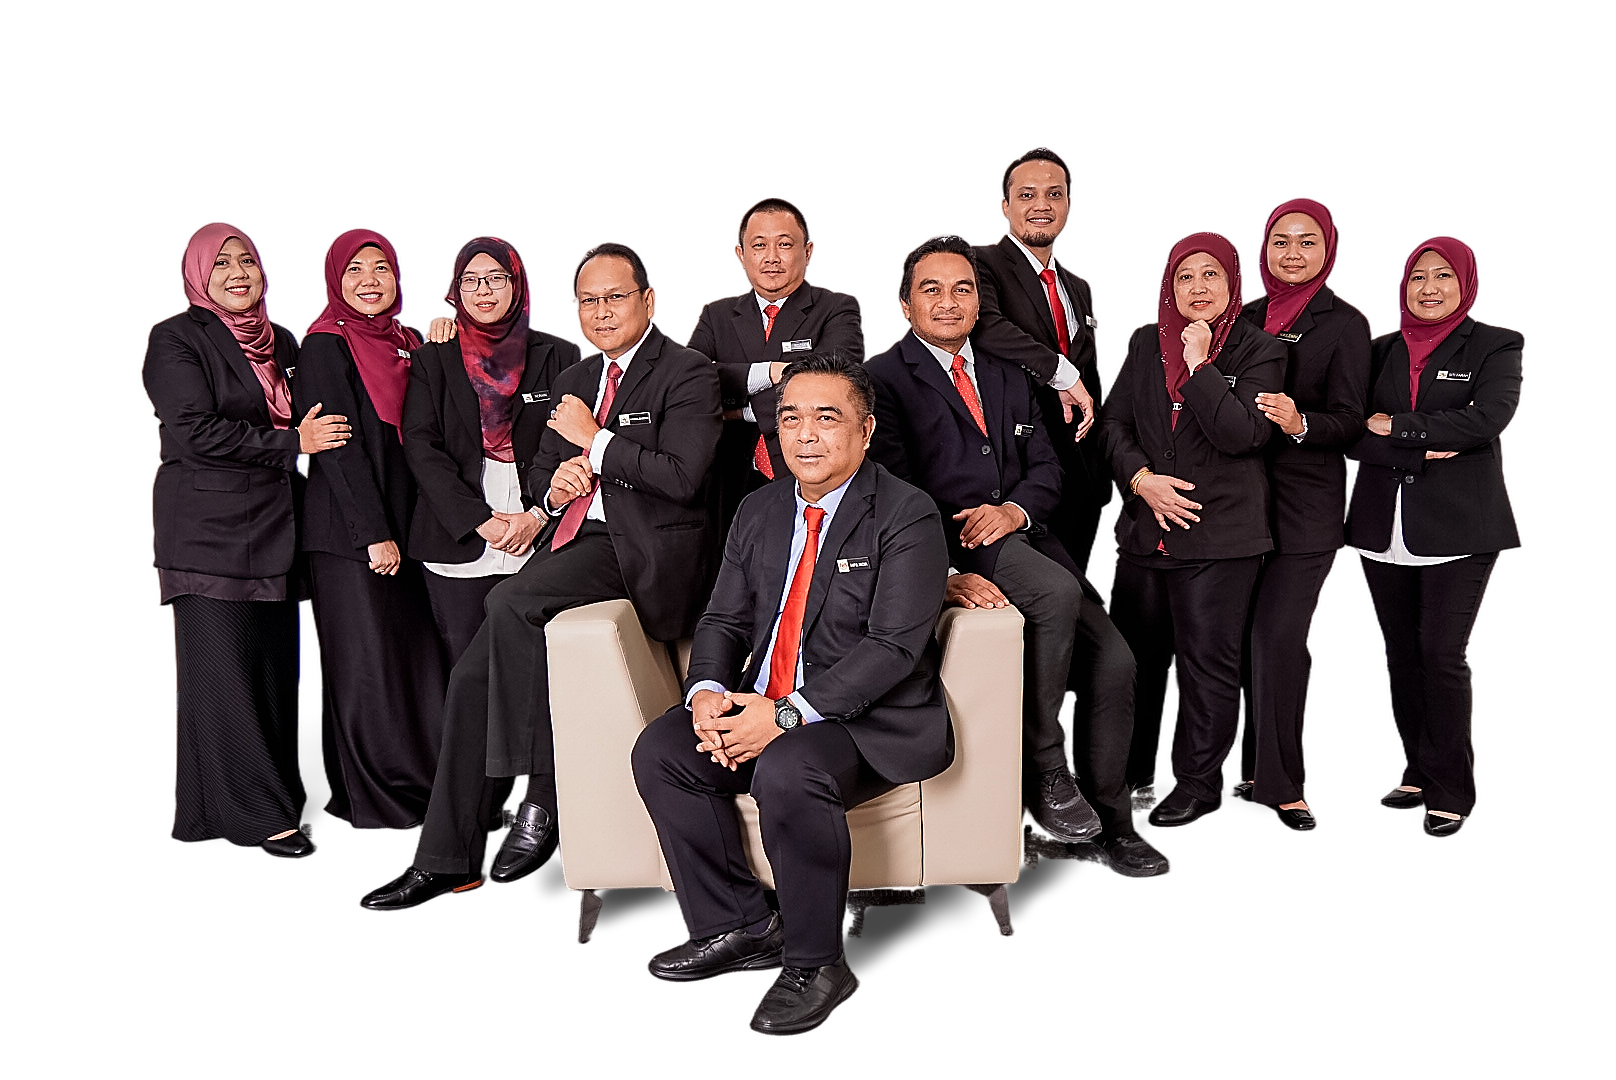
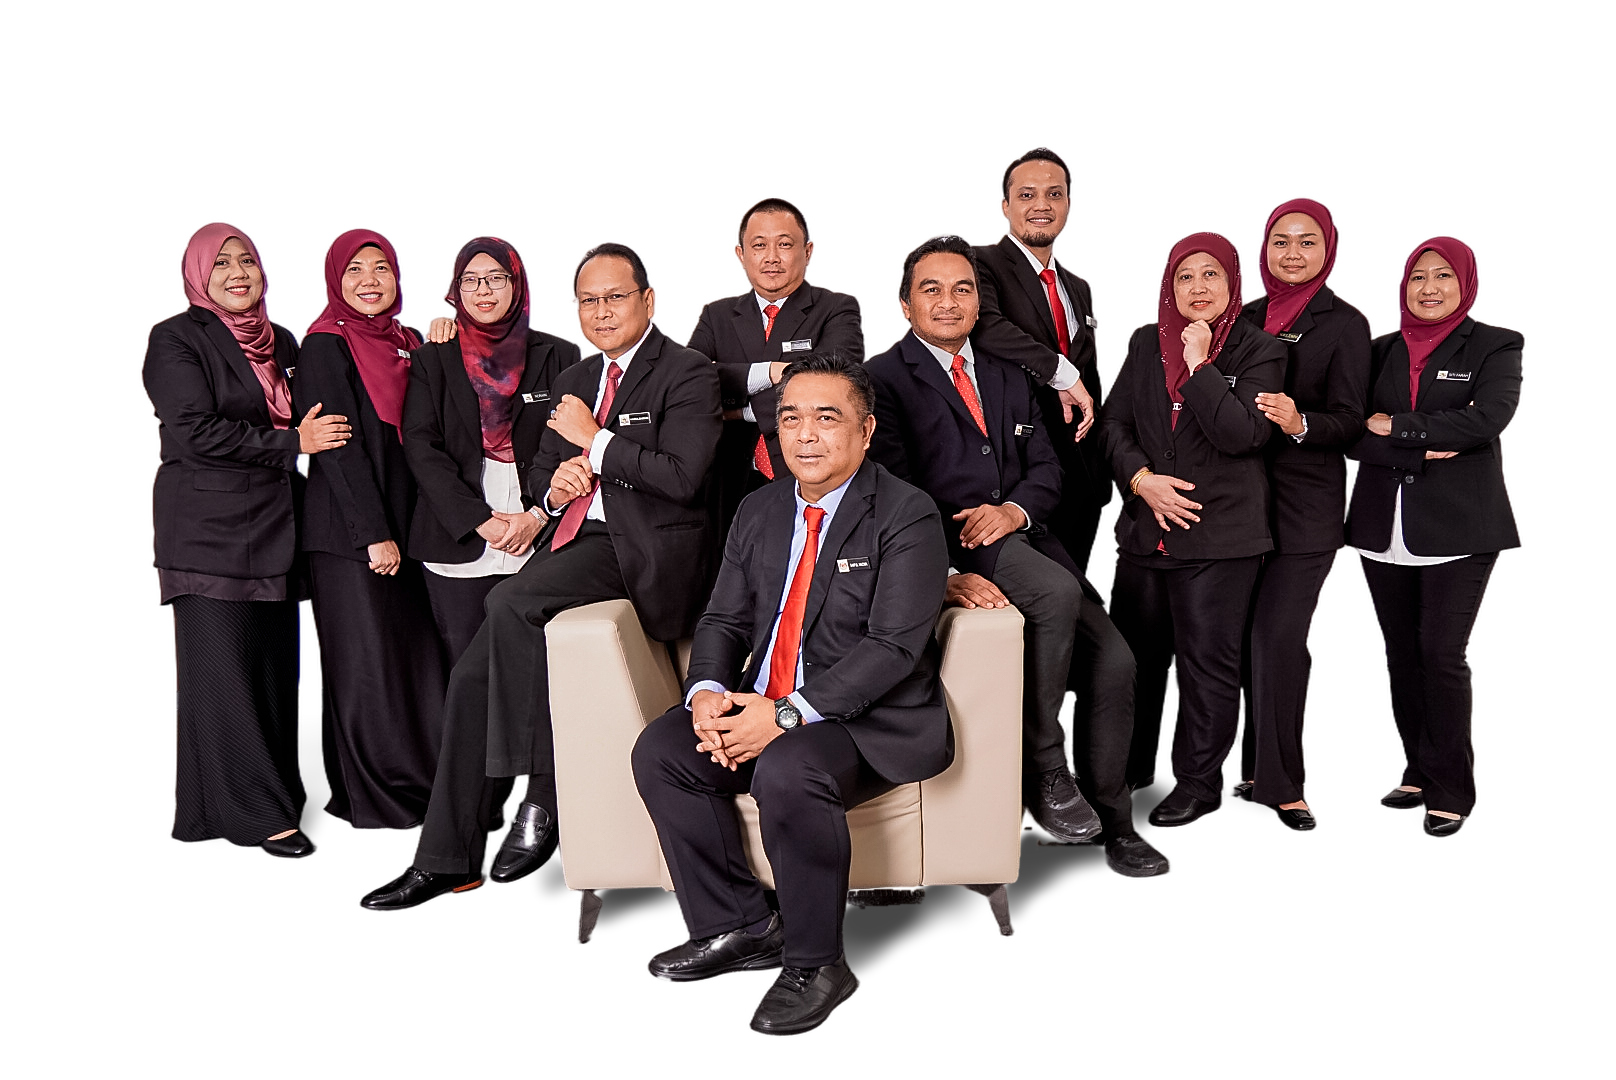
GROUPING MCORP: v4 softer sharpening, remove carpet specks around shoes
Sharpening toned down, contact shadows next to shoes no longer kept as
black, and carpet pieces left around shoes and the sofa base removed.

Claude-Session: https://claude.ai/code/session_014fjMytN3Q8BaqcuncxWeag

diff --git a/scripts/studio-bg/decarpet.py b/scripts/studio-bg/decarpet.py
@@ -1,0 +1,26 @@
+"""Remove carpet pieces the person model kept around shoes / furniture bases (below the floor line)."""
+import sys, numpy as np, cv2
+from PIL import Image
+from studio import skirting
+src, mp, out = sys.argv[1:4]
+chairs = sys.argv[4] if len(sys.argv) > 4 else None
+im = np.asarray(Image.open(src).convert('RGB')).astype(np.float32)
+g = im.mean(2); sat = im.max(2) - im.min(2)
+f = np.asarray(Image.open(mp).convert('L')).astype(np.float32) / 255
+H, W = f.shape
+_, s0, s1 = skirting(g, f < 0.05, H)
+tex = cv2.blur(np.abs(g - cv2.GaussianBlur(g, (0, 0), 1.0)), (5, 5))
+cl = ((g > 95) & (g < 205) & (sat < 22) & (tex > 6)).astype(np.float32)
+frac = cv2.blur(cl, (11, 11))
+rm = (frac > 0.5) & (f > 0.05)
+rm[:s1 + 5] = False
+if chairs:
+    c = np.asarray(Image.open(chairs).convert('L')) > 100
+    rm &= ~(cv2.dilate(c.astype(np.uint8), np.ones((5, 5), np.uint8)) > 0)
+solid = cv2.erode((g < 55).astype(np.uint8), np.ones((5, 5), np.uint8))
+solid = cv2.dilate(solid, np.ones((9, 9), np.uint8)) > 0
+rm &= ~solid
+rm = cv2.morphologyEx(rm.astype(np.uint8), cv2.MORPH_OPEN, np.ones((3, 3), np.uint8)) > 0
+soft = cv2.GaussianBlur(rm.astype(np.float32), (0, 0), 1.0)
+print('removed px', int(rm.sum()))
+Image.fromarray((np.clip(f * (1 - soft), 0, 1) * 255 + .5).astype(np.uint8)).save(out)

diff --git a/scripts/studio-bg/darkfill.py b/scripts/studio-bg/darkfill.py
@@ -25,7 +25,7 @@ tex = cv2.blur(np.abs(g - cv2.GaussianBlur(g, (0, 0), 1.0)), (5, 5))
 up = np.roll(g, 14, 0); dn = np.roll(g, -14, 0)
 thin = (g < 70) & (up > 140) & (dn > 95)
 thin = cv2.dilate(thin.astype(np.uint8), np.ones((7, 9), np.uint8)) > 0
-dark = (g < 62) & (tex < 8) & region & (f < 0.5) & ~thin
+dark = (g < 40) & (tex < 8) & region & (f < 0.5) & ~thin
 dark = cv2.morphologyEx(dark.astype(np.uint8), cv2.MORPH_OPEN, np.ones((4, 4), np.uint8)) > 0
 k2, lab2, st2, _ = cv2.connectedComponentsWithStats(dark.astype(np.uint8), 8)
 touch = cv2.dilate(subj, np.ones((5, 5), np.uint8)) > 0
@@ -34,7 +34,7 @@ ids = np.unique(lab2[touch & dark])
 for i in ids:
     if i and st2[i][4] >= 80:
         keep |= lab2 == i
-add = np.clip((70 - g) / 30, 0, 1) * cv2.dilate(keep.astype(np.uint8), np.ones((3, 3), np.uint8))
+add = np.clip((48 - g) / 16, 0, 1) * cv2.dilate(keep.astype(np.uint8), np.ones((3, 3), np.uint8))
 add = cv2.GaussianBlur(add.astype(np.float32), (0, 0), 0.7)
 print('added px', int(keep.sum()))
 Image.fromarray((np.maximum(f, add) * 255 + .5).astype(np.uint8)).save(out)

diff --git a/scripts/studio-bg/erase.py b/scripts/studio-bg/erase.py
@@ -1,0 +1,12 @@
+"""Targeted erase of leftover carpet/shadow in a box, keeping solid black (shoes) and beige sofa."""
+import sys, numpy as np, cv2
+from PIL import Image
+src, mp, out = sys.argv[1:4]
+x0, y0, x1, y1 = map(int, sys.argv[4].split(','))
+im = np.asarray(Image.open(src).convert('RGB')).astype(np.float32); g = im.mean(2); sat = im.max(2) - im.min(2)
+f = np.asarray(Image.open(mp).convert('L')).astype(np.float32) / 255
+box = np.zeros(f.shape, bool); box[y0:y1, x0:x1] = True
+keep = ((g < 35) & (len(sys.argv) < 6)) | ((sat > 20) & (g > 120))
+kill = box & ~keep
+soft = cv2.GaussianBlur(kill.astype(np.float32), (0, 0), 1.0)
+Image.fromarray((f * (1 - soft) * 255 + .5).astype(np.uint8)).save(out)

diff --git a/scripts/studio-bg/studio.py b/scripts/studio-bg/studio.py
@@ -50,7 +50,7 @@ def sharpen(rgb):
     """Two-scale unsharp mask on luminance only (no colour fringing)."""
     Y = rgb @ np.array([0.299, 0.587, 0.114])
     d = np.zeros_like(Y)
-    for sig, amt in ((0.7, 0.9), (1.6, 0.45)):
+    for sig, amt in ((0.8, 0.35), (1.6, 0.15)):
         hp = Y - cv2.GaussianBlur(Y, (0, 0), sig)
         hp = np.sign(hp) * np.maximum(np.abs(hp) - 0.004, 0)
         d += amt * hp

diff --git a/edits/grouping-mcorp/NOTES.md b/edits/grouping-mcorp/NOTES.md
@@ -21,4 +21,8 @@ Pipeline v2 (`scripts/studio-bg/`, run from a work dir with originals in `../dl/
 7. `studio.py [chairs mask]` — white background + real floor shadows (deep shadows only, carpet tile
    pattern dropped), soft occlusion shadow under each chair seat, foreground colour decontamination,
    two-scale luminance unsharp mask.
+8. `decarpet.py` — carpet pieces the person model kept around shoes/furniture bases removed
+   (region-based, solid black protected); `erase.py` for the two leftovers under the sofa in 09/10
+   (boxes 1012,828..1105,905 and 1012,830..1105,900).
+Sharpening was toned down after review (0.8px×0.35 + 1.6px×0.15).
 `chain.sh NN` runs steps 3–7 for a chair photo.
